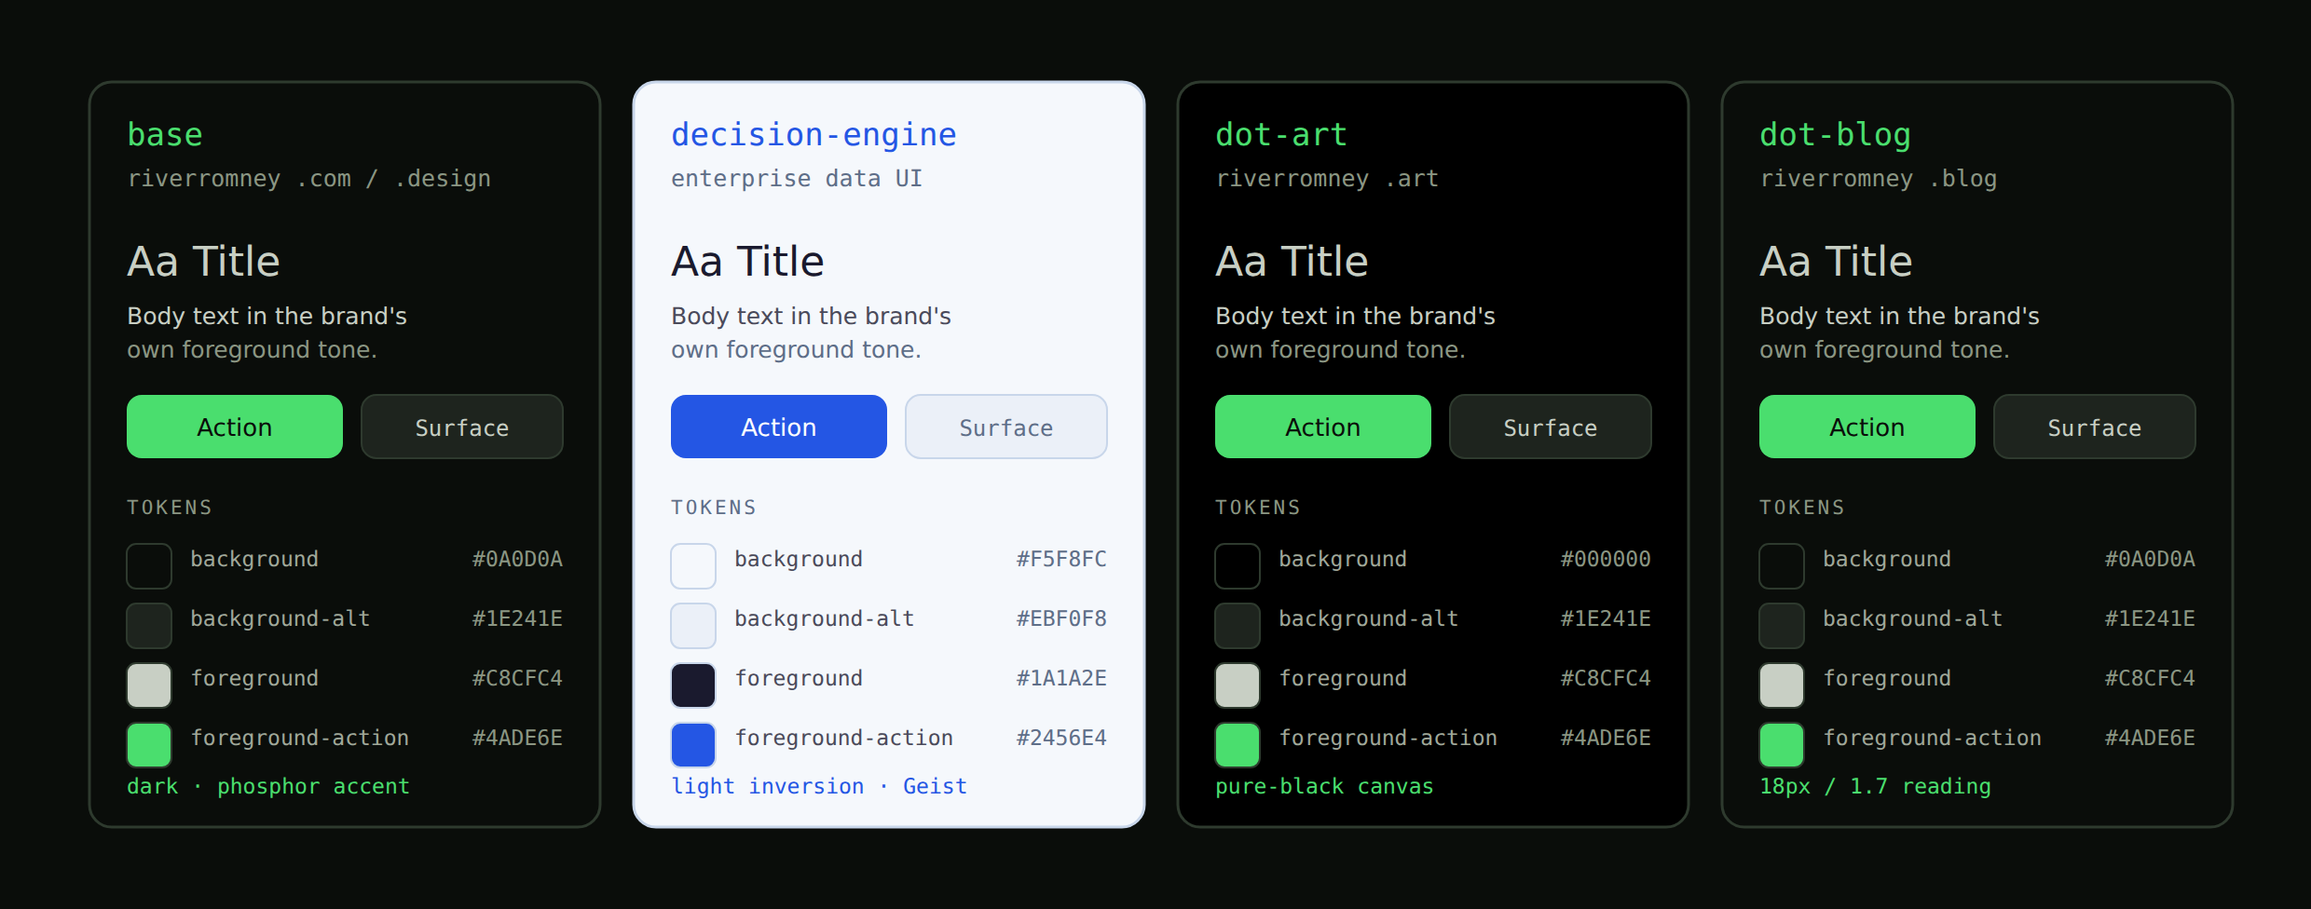
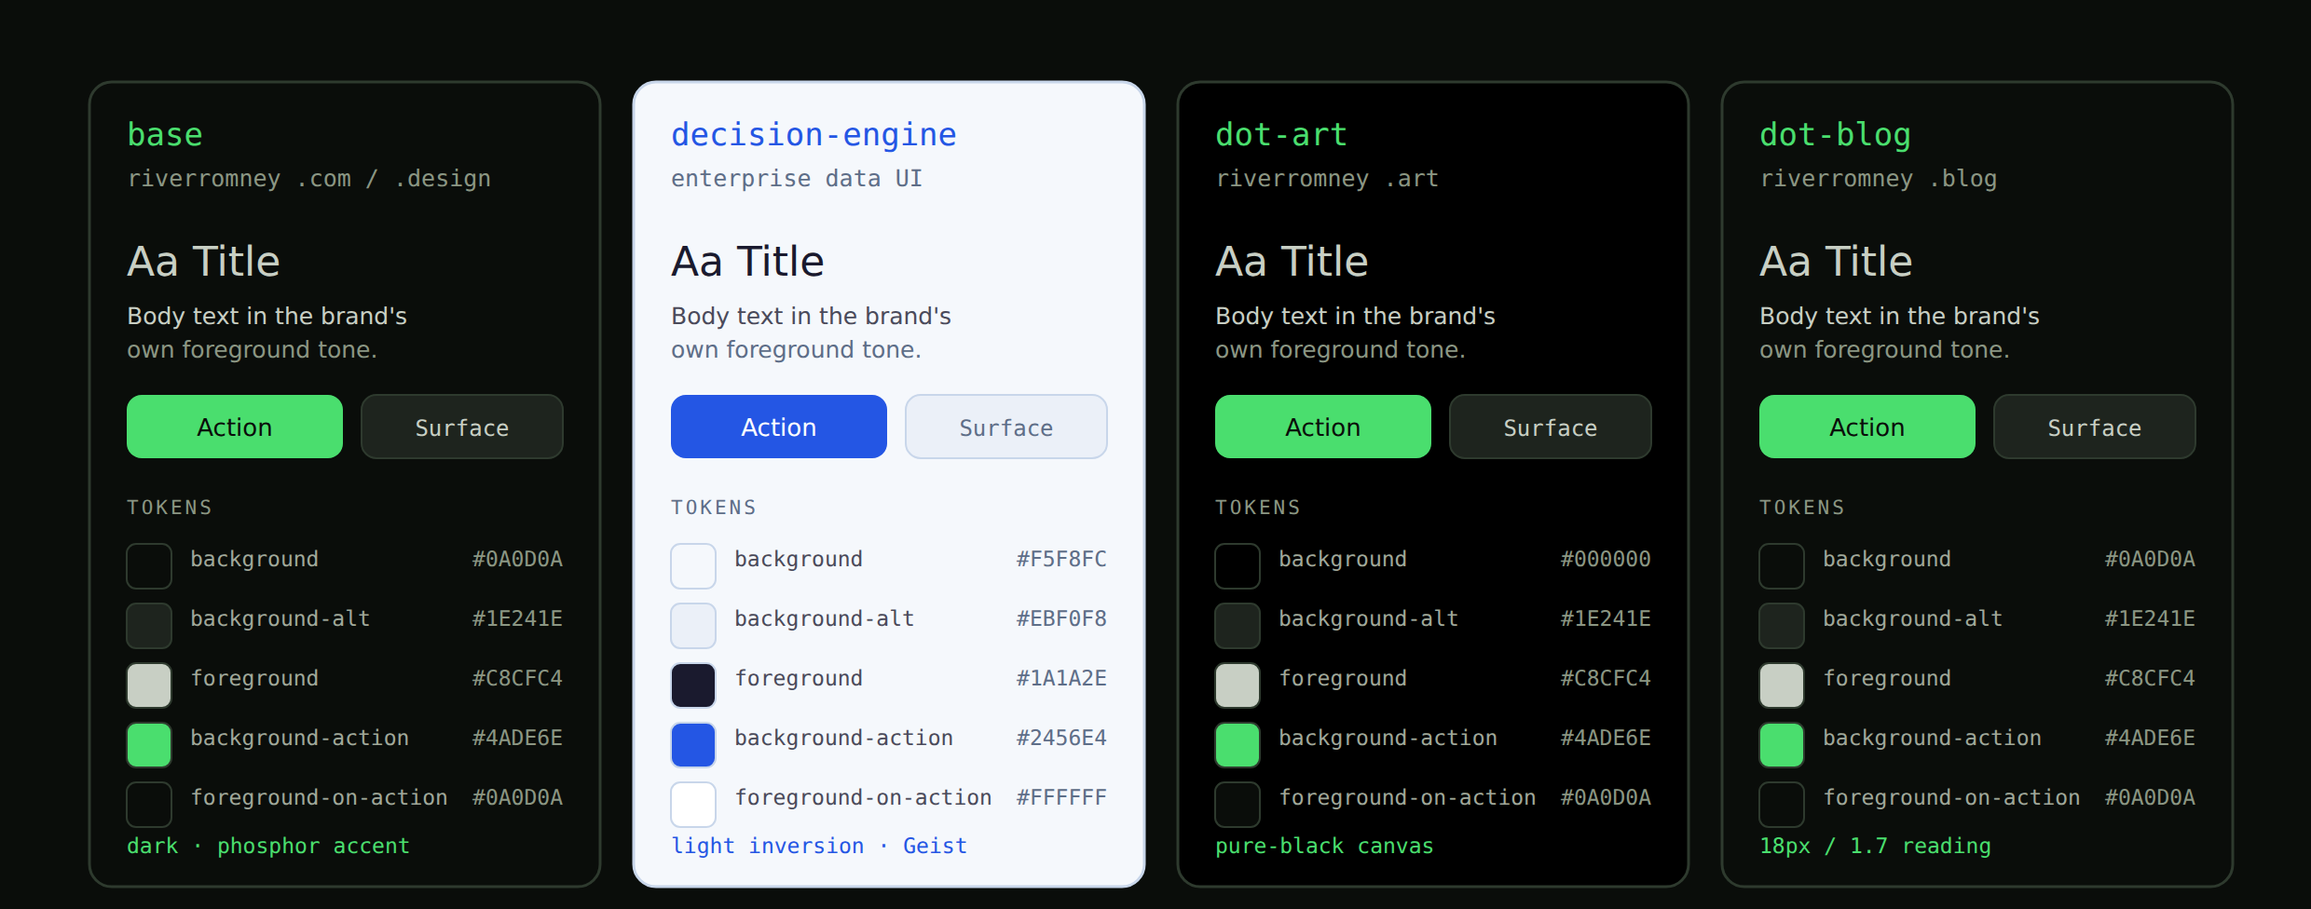
Fix action-token labels in ds-brands; tighten /work/system prose (#59)
The four brand cards labeled their filled Action swatch foreground-action.
The button's actual pair is background-action + foreground-on-action, in
every brand including decision-engine — rename the row and add the
on-action row (#0A0D0A on the dark brands, #FFFFFF on DE).

Also a prose-reduction pass across the system case study: shorter
paragraphs and list items throughout, same facts and structure.

Claude-Session: https://claude.ai/code/session_01GPnELqpaXHPtBpSKX69Rmh

diff --git a/lib/caseContent.ts b/lib/caseContent.ts
@@ -872,7 +872,7 @@ export const CASE_CONTENT: Record<string, CaseContent> = {
       },
       {
         type: "p",
-        text: "It's also a sequel. [OTKit](/work/ot-design-system) was this discipline built for people: documentation humans read, governance by hand, code and Figma maintained in parallel. Parsimony inverts each of those — a contract machines build from, the schema as the source of truth, and the committed end state that code and Figma are both generated from it.",
+        text: "It's also a sequel. [OTKit](/work/ot-design-system) was this discipline built for people: docs humans read, governance by hand. Parsimony inverts it — a contract machines build from, with code and Figma generated from it as the committed end state.",
       },
       {
         type: "note",
@@ -904,7 +904,7 @@ export const CASE_CONTENT: Record<string, CaseContent> = {
       { type: "h2", text: "The Problem" },
       {
         type: "p",
-        text: "Design systems are written for people: docs sites, Figma libraries, \"use this, not that.\" But the thing building my UI now is an agent, and an agent doesn't read your docs site. Without the system as data, every agent reinvents, and drift spreads to every repo that consumes it.",
+        text: "Design systems are written for people: docs sites, Figma libraries, \"use this, not that.\" But the thing building my UI now is an agent, and an agent doesn't read your docs site.",
       },
       {
         type: "p",
@@ -914,7 +914,7 @@ export const CASE_CONTENT: Record<string, CaseContent> = {
         type: "diagram",
         alt: "Four agent runs of the same prompt — add a confirm button, use the design system — each producing a different wrong button: one uses the near-miss hex #22C55E instead of a token, one invents a gradient fill and adds an emoji, one sets font-family cursive, one renames the action and renders it as a link. Kicker: not hallucinations — every agent had read the docs. Prose doesn't govern.",
         caption:
-          "What that looks like in practice: the same prompt, four ungoverned runs, four different opinions. This is drift, not hallucination — and it's the failure mode the rest of this system targets.",
+          "Same prompt, four ungoverned runs, four opinions. Drift, not hallucination — the failure mode this system targets.",
         src: "/projects/images/ds-ungoverned.svg",
       },
       { type: "hr" },
@@ -925,17 +925,17 @@ export const CASE_CONTENT: Record<string, CaseContent> = {
       },
       {
         type: "p",
-        text: "One repo, one direction of flow: the diagram above is the entire system. The decision that holds it together: **tokens and components version together**, so a token rename is a breaking change by design and there's no version skew across packages.",
+        text: "One repo, one direction of flow. Tokens and components version together, so a token rename is a breaking change by design.",
       },
       {
         type: "ul",
         items: [
-          "**Author.** DTCG tokens in two layers: primitives (raw values) → semantic (named roles UI writes against). Brand overrides re-point the same semantic roles.",
-          "**Build.** Style Dictionary compiles every brand to CSS. A validation gate rejects hardcoded hex, primitive references, and dangling token aliases, so a rename that wasn't propagated fails the build, not production.",
+          "**Author.** DTCG tokens: primitives → semantic roles. Brands re-point the roles.",
+          "**Build.** Style Dictionary compiles every brand to CSS. A gate rejects hex, primitive refs, and dangling aliases — a bad rename fails the build, not production.",
           "**Components.** 27 framework-agnostic Lit web components, wired to Figma via Code Connect.",
-          "**Artifact.** Each component's hand-authored metadata merges with its auto-generated Custom Elements Manifest into a single design-system.json.",
-          "**Interfaces.** Humans read Figma and Markdown docs; agents read an MCP server.",
-          "**Consumers.** Every site and product repo pulls from one source, now as an installable token package.",
+          "**Artifact.** Hand-authored metadata + generated manifest merge into one design-system.json.",
+          "**Interfaces.** Humans read Figma and docs; agents read an MCP server.",
+          "**Consumers.** Every site pulls from one source, as an installable package.",
         ],
       },
       {
@@ -949,14 +949,14 @@ export const CASE_CONTENT: Record<string, CaseContent> = {
       { type: "h2", text: "One Source of Truth, Four Brands" },
       {
         type: "diagram",
-        alt: "Four brand panels: base (dark, phosphor green accent), decision-engine (light inversion, blue accent), dot-art (pure-black canvas), and dot-blog (18px reading). Each shows the same UI rendered in its own canvas, surface, text, and accent token values.",
+        alt: "Four brand panels: base (dark, phosphor green accent), decision-engine (light inversion, blue accent), dot-art (pure-black canvas), and dot-blog (18px reading). Each shows the same UI rendered in its own canvas, surface, text, and action token values, with the filled Action button labeled background-action and foreground-on-action.",
         caption:
           "Every brand is the same token graph with a thin override layer. No forks; the difference is data.",
         src: "/projects/images/ds-brands.svg",
       },
       {
         type: "p",
-        text: "Decision-engine flips it to a light enterprise theme with a blue primary. dot-art swaps the canvas to pure black for photos. dot-blog bumps up the reading size. None of this forks a component. Each brand is just a small override file on top of the same tokens.",
+        text: "Decision-engine flips to a light enterprise theme with a blue primary; dot-art goes pure black for photos; dot-blog bumps the reading size. None of it forks a component — each brand is a small override file.",
       },
       { type: "hr" },
       { type: "h2", text: "Components as Contracts" },
@@ -969,7 +969,7 @@ export const CASE_CONTENT: Record<string, CaseContent> = {
       },
       {
         type: "p",
-        text: "Each component ships its own rulebook: the tokens it may touch, the rules that bind it, the ARIA pattern and WCAG criteria it implements. That file is the spec, and the same file the agent reads, with prop descriptions single-sourced from the code's JSDoc so the contract can't drift from the implementation.",
+        text: "Each component ships its own rulebook: the tokens it may touch, the rules that bind it, the ARIA pattern it implements. The spec and what the agent reads are the same file — prop descriptions come from the code's JSDoc, so the contract can't drift from the implementation.",
       },
       { type: "hr" },
       { type: "h2", text: "Docs That Can't Drift" },
@@ -982,7 +982,7 @@ export const CASE_CONTENT: Record<string, CaseContent> = {
       },
       {
         type: "p",
-        text: "Docs are generated from the same metadata the agent reads: the mechanical sections regenerate on every run, hand-written prose is preserved, and a CI gate fails the build if a component change leaves its docs stale.",
+        text: "Docs generate from the same metadata the agent reads. Mechanical sections regenerate, hand-written prose is preserved, and CI fails the build if a change leaves its docs stale.",
       },
       { type: "hr" },
       { type: "h2", text: "check_usage: Governance, Moved Upstream" },
@@ -995,7 +995,7 @@ export const CASE_CONTENT: Record<string, CaseContent> = {
       },
       {
         type: "p",
-        text: "Design-system checks usually happen after the fact: a linter in CI, a reviewer in a PR. **check_usage moves that earlier**: hand the system a snippet before the code exists, get back every violation.",
+        text: "Design-system checks usually happen after the fact. **check_usage moves them earlier**: hand the system a snippet before the code ships, get back every violation.",
       },
       {
         type: "demo",
@@ -1003,11 +1003,11 @@ export const CASE_CONTENT: Record<string, CaseContent> = {
         surface: "dark",
         frameLabel: "Parsimony · check_usage · Playground",
         caption:
-          "Live: edit the snippet and watch the violations update. A faithful port of the static rules: hardcoded hex, primitive references, hardcoded type. The deployed MCP tool runs the same rule set plus deprecated-token checks against the live registry.",
+          "Live: edit the snippet and watch the violations update. A faithful port of the static rules — the deployed MCP tool runs the same set against the live registry.",
       },
       {
         type: "p",
-        text: "The same rules run in three places: this check, the build gate, and the drift scan. So the answer an agent gets here is the one the build will enforce later.",
+        text: "The same rules run in three places — this check, the build gate, the drift scan — so the answer an agent gets here is the one the build enforces later.",
       },
       { type: "hr" },
       { type: "h2", text: "An Agent, Self-Correcting" },
@@ -1020,13 +1020,13 @@ export const CASE_CONTENT: Record<string, CaseContent> = {
       },
       {
         type: "p",
-        text: "The whole argument in one session: the agent asks what a badge is, drafts it the quick way with raw hex, runs check_usage, gets back the exact violations the build would reject, and ships the component instead. None of it is staged.",
+        text: "The whole argument in one session: the agent asks what a badge is, drafts it with raw hex, gets back the exact violations the build would reject, and ships the fix instead. None of it is staged.",
       },
       { type: "hr" },
       { type: "h2", text: "Governance, Measured" },
       {
         type: "p",
-        text: "\"Agents follow the system better when the system is data\" was an assertion until I measured it. The experiment: 20 realistic UI prompts, two arms, one isolated fresh agent per prompt per arm. The governed arm received the system's compiled context packs and nothing else, no MCP, no repo access. The ungoverned arm received the prompt plus the sentence \"Use the design system.\" Same model, same day, and every output scored mechanically by the same rule set that gates the build. No hand grading anywhere.",
+        text: "\"Agents follow the system better when the system is data\" was an assertion until I measured it. Twenty realistic UI prompts, two arms, a fresh agent per run. The governed arm got the compiled context packs; the ungoverned arm got \"Use the design system.\" Every output scored by the same rule set that gates the build — no hand grading.",
       },
       {
         type: "stats",
@@ -1038,28 +1038,28 @@ export const CASE_CONTENT: Record<string, CaseContent> = {
       },
       {
         type: "p",
-        text: "Ungoverned agents hardcoded hex values, raw font sizes, and off-scale spacing at 5.5 times the rate. Neither arm invented a token or a prop that doesn't exist, which is its own finding: fabrication wasn't the failure mode, drift was. The one dirty governed run exposed two gaps in how the packs deliver context, and both were filed as issues the next day. The eval is a committed, re-runnable harness, so the number gets measured again as the system grows.",
+        text: "Neither arm invented a token that doesn't exist — the failure mode was drift, not fabrication. The one dirty governed run exposed two gaps in the packs; both became issues the next day. The eval is committed and re-runnable, so the number gets measured again as the system grows.",
       },
       { type: "hr" },
       { type: "h2", text: "The Contract Caught a Shipped Bug" },
       {
         type: "p",
-        text: "The newest layer of the contract is **anatomy**: each component declares its named parts and which foreground token sits on which background token in every state. That turns contrast from a convention the system hopes holds into a pairing the gate checks against what actually renders.",
+        text: "The newest layer of the contract is **anatomy**: each component declares which foreground token sits on which background token, in every state. Contrast stops being a convention the system hopes holds and becomes a pairing the gate checks against what actually renders.",
       },
       {
         type: "p",
-        text: "The first pass over three components found a real defect. The badge's accent variants had shipped unreadable under the light enterprise brand, as low as 1.39:1 against the 4.5:1 requirement, because the brand re-tinted the fills without re-tinting the text. No person had caught it, and the contrast gate had those exact pairings on a brand exclusion list, so nothing ever looked. The anatomy declaration named the pair the badge actually renders, and the gate failed it immediately.",
+        text: "The first pass found a real defect. The badge's accent variants had shipped unreadable under the light enterprise brand — as low as 1.39:1 — because the brand re-tinted the fills without re-tinting the text. The gate had those pairings on an exclusion list, so nothing ever looked. Anatomy named the pair the badge actually renders, and the gate failed it immediately.",
       },
       {
         type: "diagram",
         alt: "Three-panel before-and-after of the badge contrast bug. Left: the shipped amber badge under the enterprise light brand — label #FCD34D on an #FFFBEB fill, 1.39:1 against the 4.5:1 requirement, failing, with the pairing sitting on a brand exclusion list. Middle: the anatomy declaration — part: label, foreground on background, every state, every brand — the pair the badge actually renders. Right: the patched badge, label overridden to #92400E on the unchanged fill, 6.84:1, WCAG AA pass, exclusion list deleted, rolled to three production sites the same day.",
         caption:
-          "The amber accent variant, before and after. The values in the figure are the real ones: the base theme's label leaked through the brand at 1.39:1 until the anatomy contract named the pairing; the override lifted it to 6.84:1 the same day.",
+          "The amber accent variant, before and after — real values, not a mockup.",
         src: "/projects/images/ds-anatomy-catch.svg",
       },
       {
         type: "p",
-        text: "The fix took one evening: three brand-side token overrides, each verified at 4.76:1 or better, the exclusion list deleted so the gate holds those pairings against every brand forever, and a patch release published and rolled to all three consumer sites the same day.",
+        text: "The fix took one evening: three brand-side overrides, the exclusion list deleted, a patch release rolled to all three consumer sites the same day.",
       },
       { type: "quote", text: "A docs site promises. A contract catches." },
       { type: "hr" },
@@ -1071,17 +1071,17 @@ export const CASE_CONTENT: Record<string, CaseContent> = {
       { type: "h3", text: "Distribution: public npm over GitHub Packages" },
       {
         type: "p",
-        text: "GitHub Packages requires a login even for public installs: every build would need a token just to download tokens. Public npm installs with none, and tokens are just CSS that ships to the browser anyway.",
+        text: "GitHub Packages needs a login even for public installs — a token just to download tokens. Public npm needs none, and tokens are CSS that ships to the browser anyway.",
       },
       { type: "h3", text: "The agent interface: MCP over docs or a REST API" },
       {
         type: "p",
-        text: "Docs don't work (agents don't read them); a REST API needs a server, a login, and discovery. MCP is what agents already speak: the session writing the code can just ask. The cost: it's new, and mine runs locally, which is fine while I'm the main user.",
+        text: "Docs don't work; a REST API needs a server, a login, discovery. MCP is what agents already speak — the session writing the code can just ask. The cost: it's new, and mine runs locally.",
       },
       { type: "h3", text: "Components: Web Components over React" },
       {
         type: "p",
-        text: "Lit Web Components are clunkier inside React, the real cost. But one version works everywhere (React, plain HTML, Figma mapping) instead of three synchronized buttons. One source beats the smoother React-only version.",
+        text: "Lit is clunkier inside React — the real cost. But one version works everywhere instead of three synchronized buttons. One source beats the smoother React-only version.",
       },
       { type: "hr" },
       { type: "h2", text: "Honest Status" },
@@ -1093,17 +1093,17 @@ export const CASE_CONTENT: Record<string, CaseContent> = {
       {
         type: "ul",
         items: [
-          "Two-layer token architecture (primitives → semantic) across four brands",
+          "Two-layer token architecture across four brands",
           "27 Lit web components, wired to Figma via Code Connect",
-          "MCP server with 17 tools: contracts, tokens, rules, decisions, brand diffs, contrast checks, consumer linting",
-          "One shared rule set behind every checker: the build gate, check_usage, and the drift scan can't disagree",
-          "CI on every change: schema checks, lint rules, token-reference resolution, stale-artifact check, golden-CSS and determinism gates, full test suite",
-          "Tokens ship as a versioned npm package with compiled agent context packs inside, so any agent can be governed with no MCP and no repo checkout; this site already consumes it",
-          "Per-prop code↔Figma bindings and a parity differ that classifies drift as ahead, behind, or mismatched",
-          "Two weekly audits on schedules: a consumer drift scan and a code↔Figma parity check, each opening a tracked issue on drift and closing it on clean",
-          "Anatomy contracts on the three deepest components, with batch rollout to the rest underway",
-          "The governance eval harness behind the 95/70 number above, committed and re-runnable",
-          "WCAG AA contrast verified across every intended token pairing, in every brand",
+          "MCP server with 17 tools: contracts, tokens, rules, contrast, consumer linting",
+          "One rule set behind every checker — the gates can't disagree",
+          "CI on every change: schema, lint, reference resolution, staleness, golden-CSS, tests",
+          "Tokens ship as an npm package with agent context packs inside — this site consumes it",
+          "Per-prop code↔Figma bindings, plus a parity differ that classifies drift",
+          "Weekly automated audits: consumer drift + code↔Figma parity, filing issues on drift",
+          "Anatomy contracts on the three deepest components; batch rollout underway",
+          "The governance eval harness behind the 95/70 number",
+          "WCAG AA verified across every intended pairing, in every brand",
         ],
       },
       { type: "h3", text: "Deliberately deferred" },
@@ -1113,13 +1113,13 @@ export const CASE_CONTENT: Record<string, CaseContent> = {
           "Publishing the component library and MCP server to npm (the token package ships today)",
           "Migrating the remaining sites (.art, .blog) onto the package",
           "Auto-fixing drift: the scan detects and files issues today; opening a fix PR is next",
-          "Generating the Figma library and the component code from the contract. The direction is committed: the contract owns each component's definition, and both surfaces are generated from it",
+          "Generating Figma and component code from the contract — the committed end state",
         ],
       },
       { type: "h3", text: "Scored against an external yardstick" },
       {
         type: "p",
-        text: "Self-assessment is cheap, so the system is also graded against Brad Frost's ten-station design-system inspection — a public framework built for auditing systems like this one. First pass scored 71; three re-inspection rounds closed the gaps.",
+        text: "Self-assessment is cheap, so the system is also graded against Brad Frost's ten-station design-system inspection. First pass: 71. Three re-inspections closed the gaps.",
       },
       {
         type: "stats",
@@ -1131,7 +1131,7 @@ export const CASE_CONTENT: Record<string, CaseContent> = {
       },
       {
         type: "p",
-        text: "Still open, honestly: one borderline 4.38:1 pairing awaiting an owner call, and the two process stations — governance and feedback loops — deliberately unscored until they've run long enough to judge, re-scoring in October.",
+        text: "Still open: one borderline 4.38:1 pairing, and the two process stations unscored until they've run long enough to judge — re-score in October.",
       },
       { type: "hr" },
       { type: "h2", text: "Reflection" },
